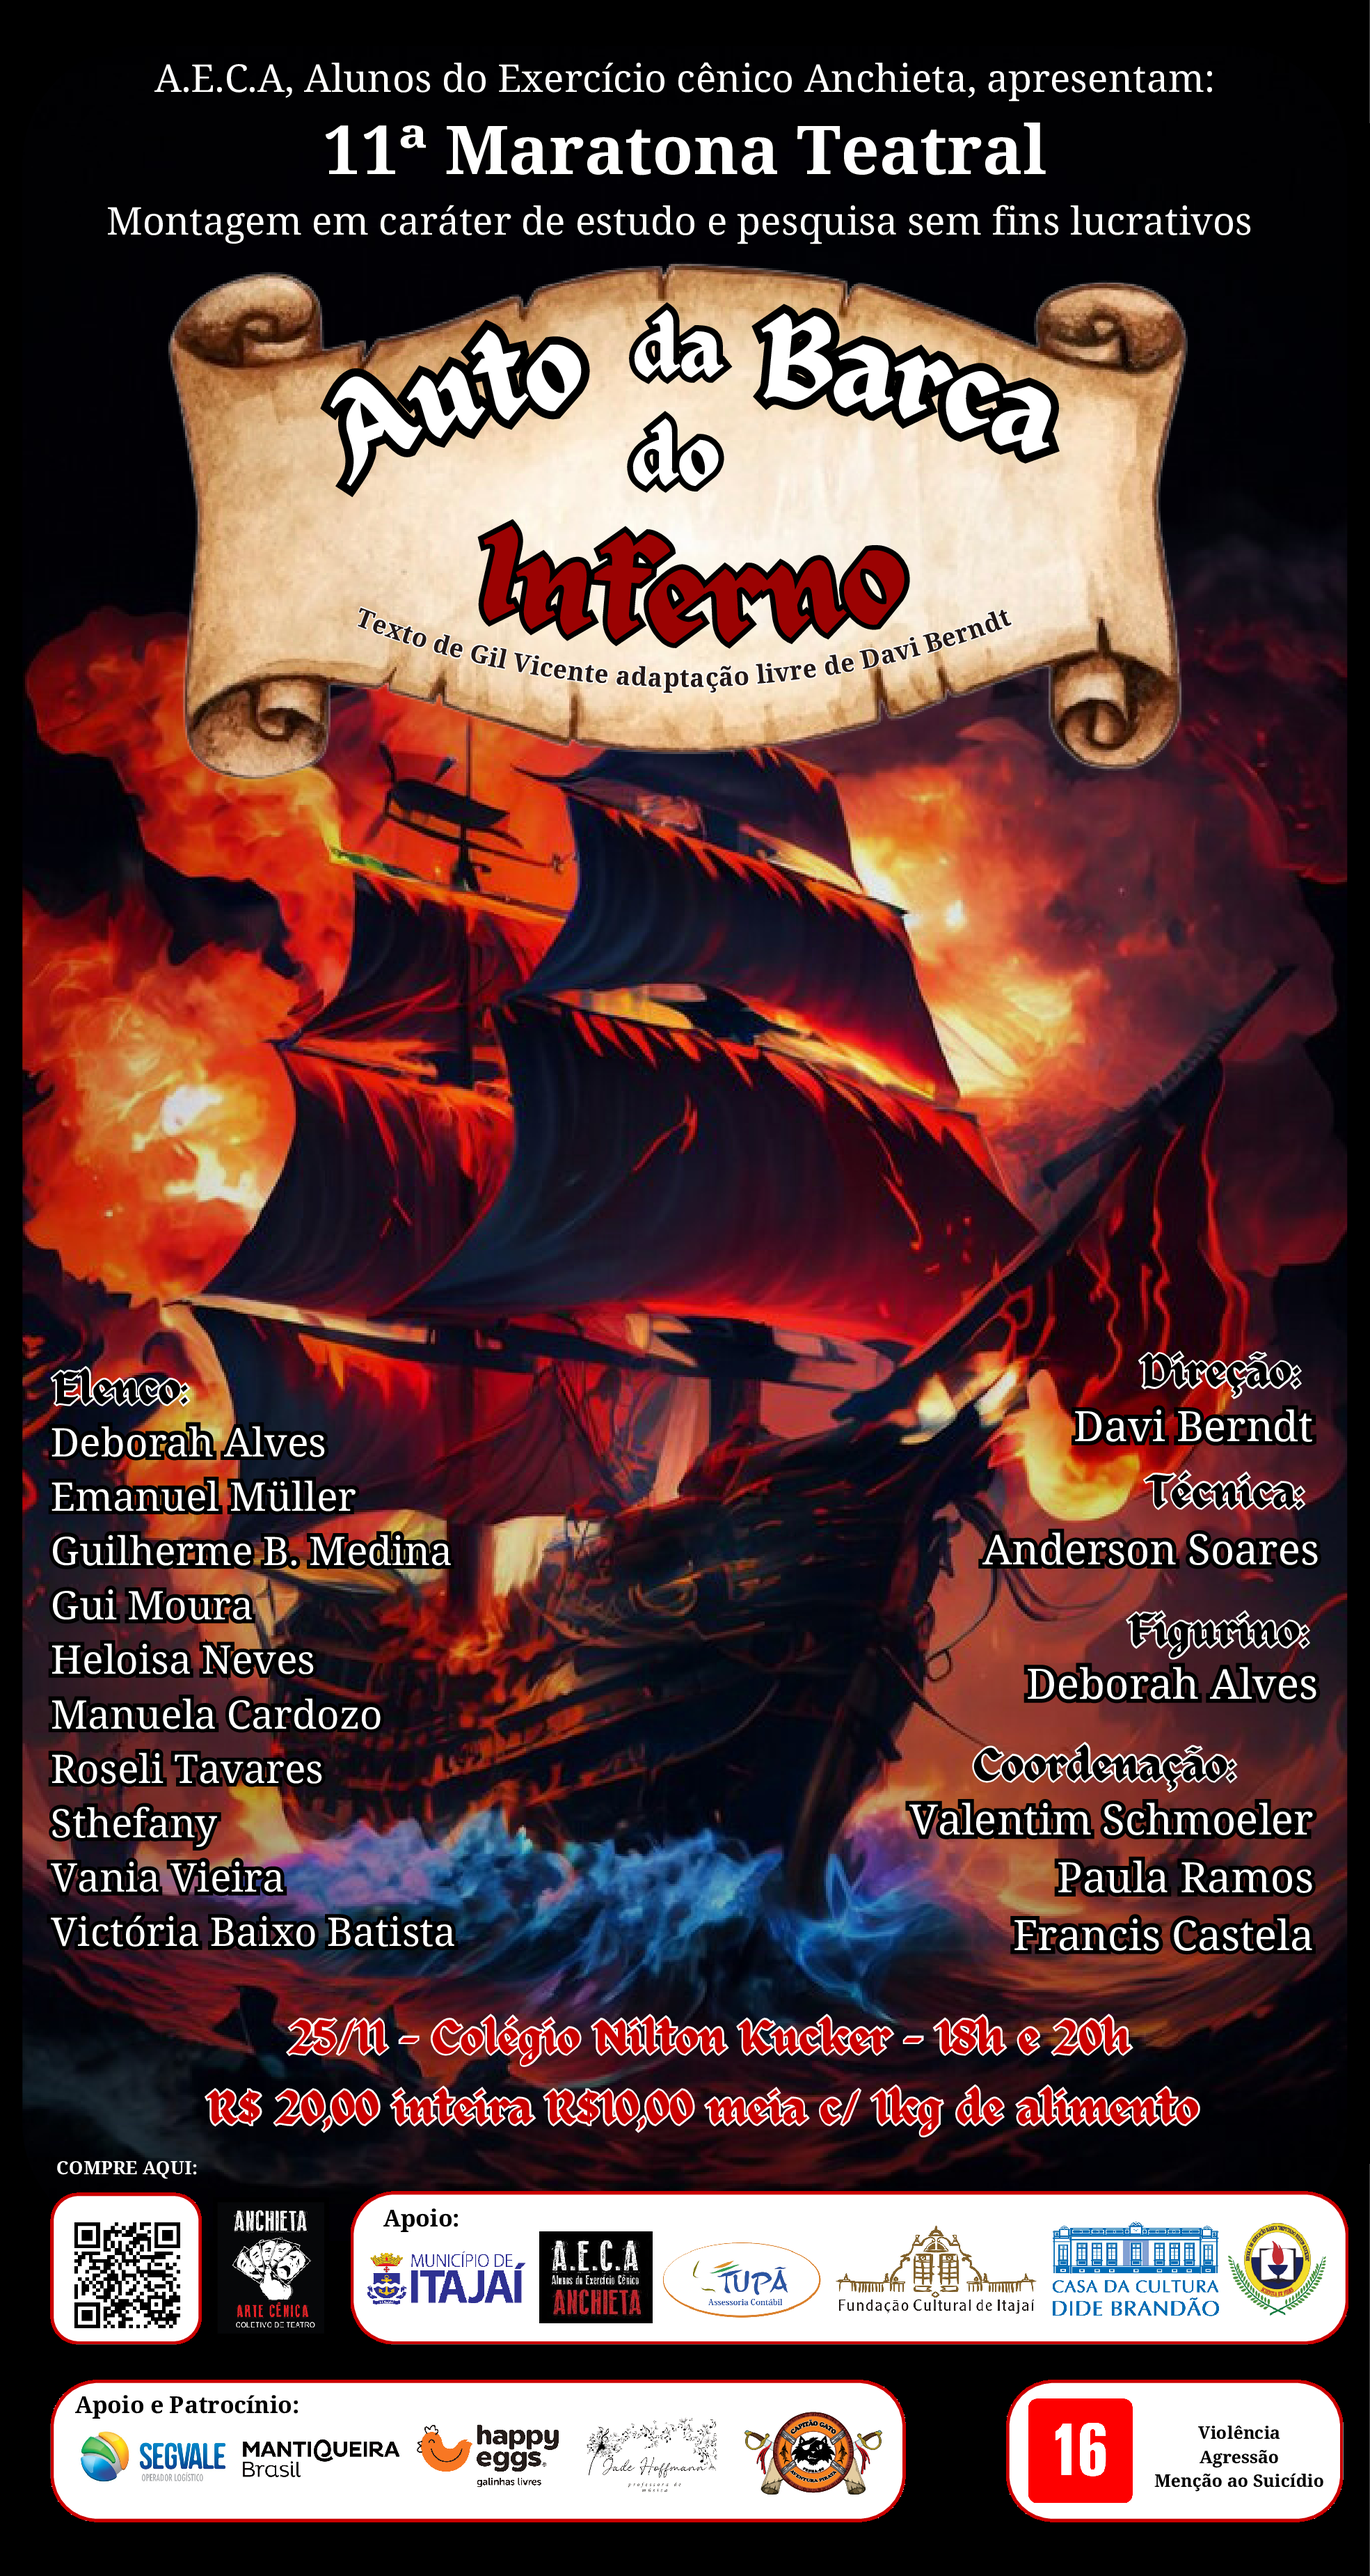
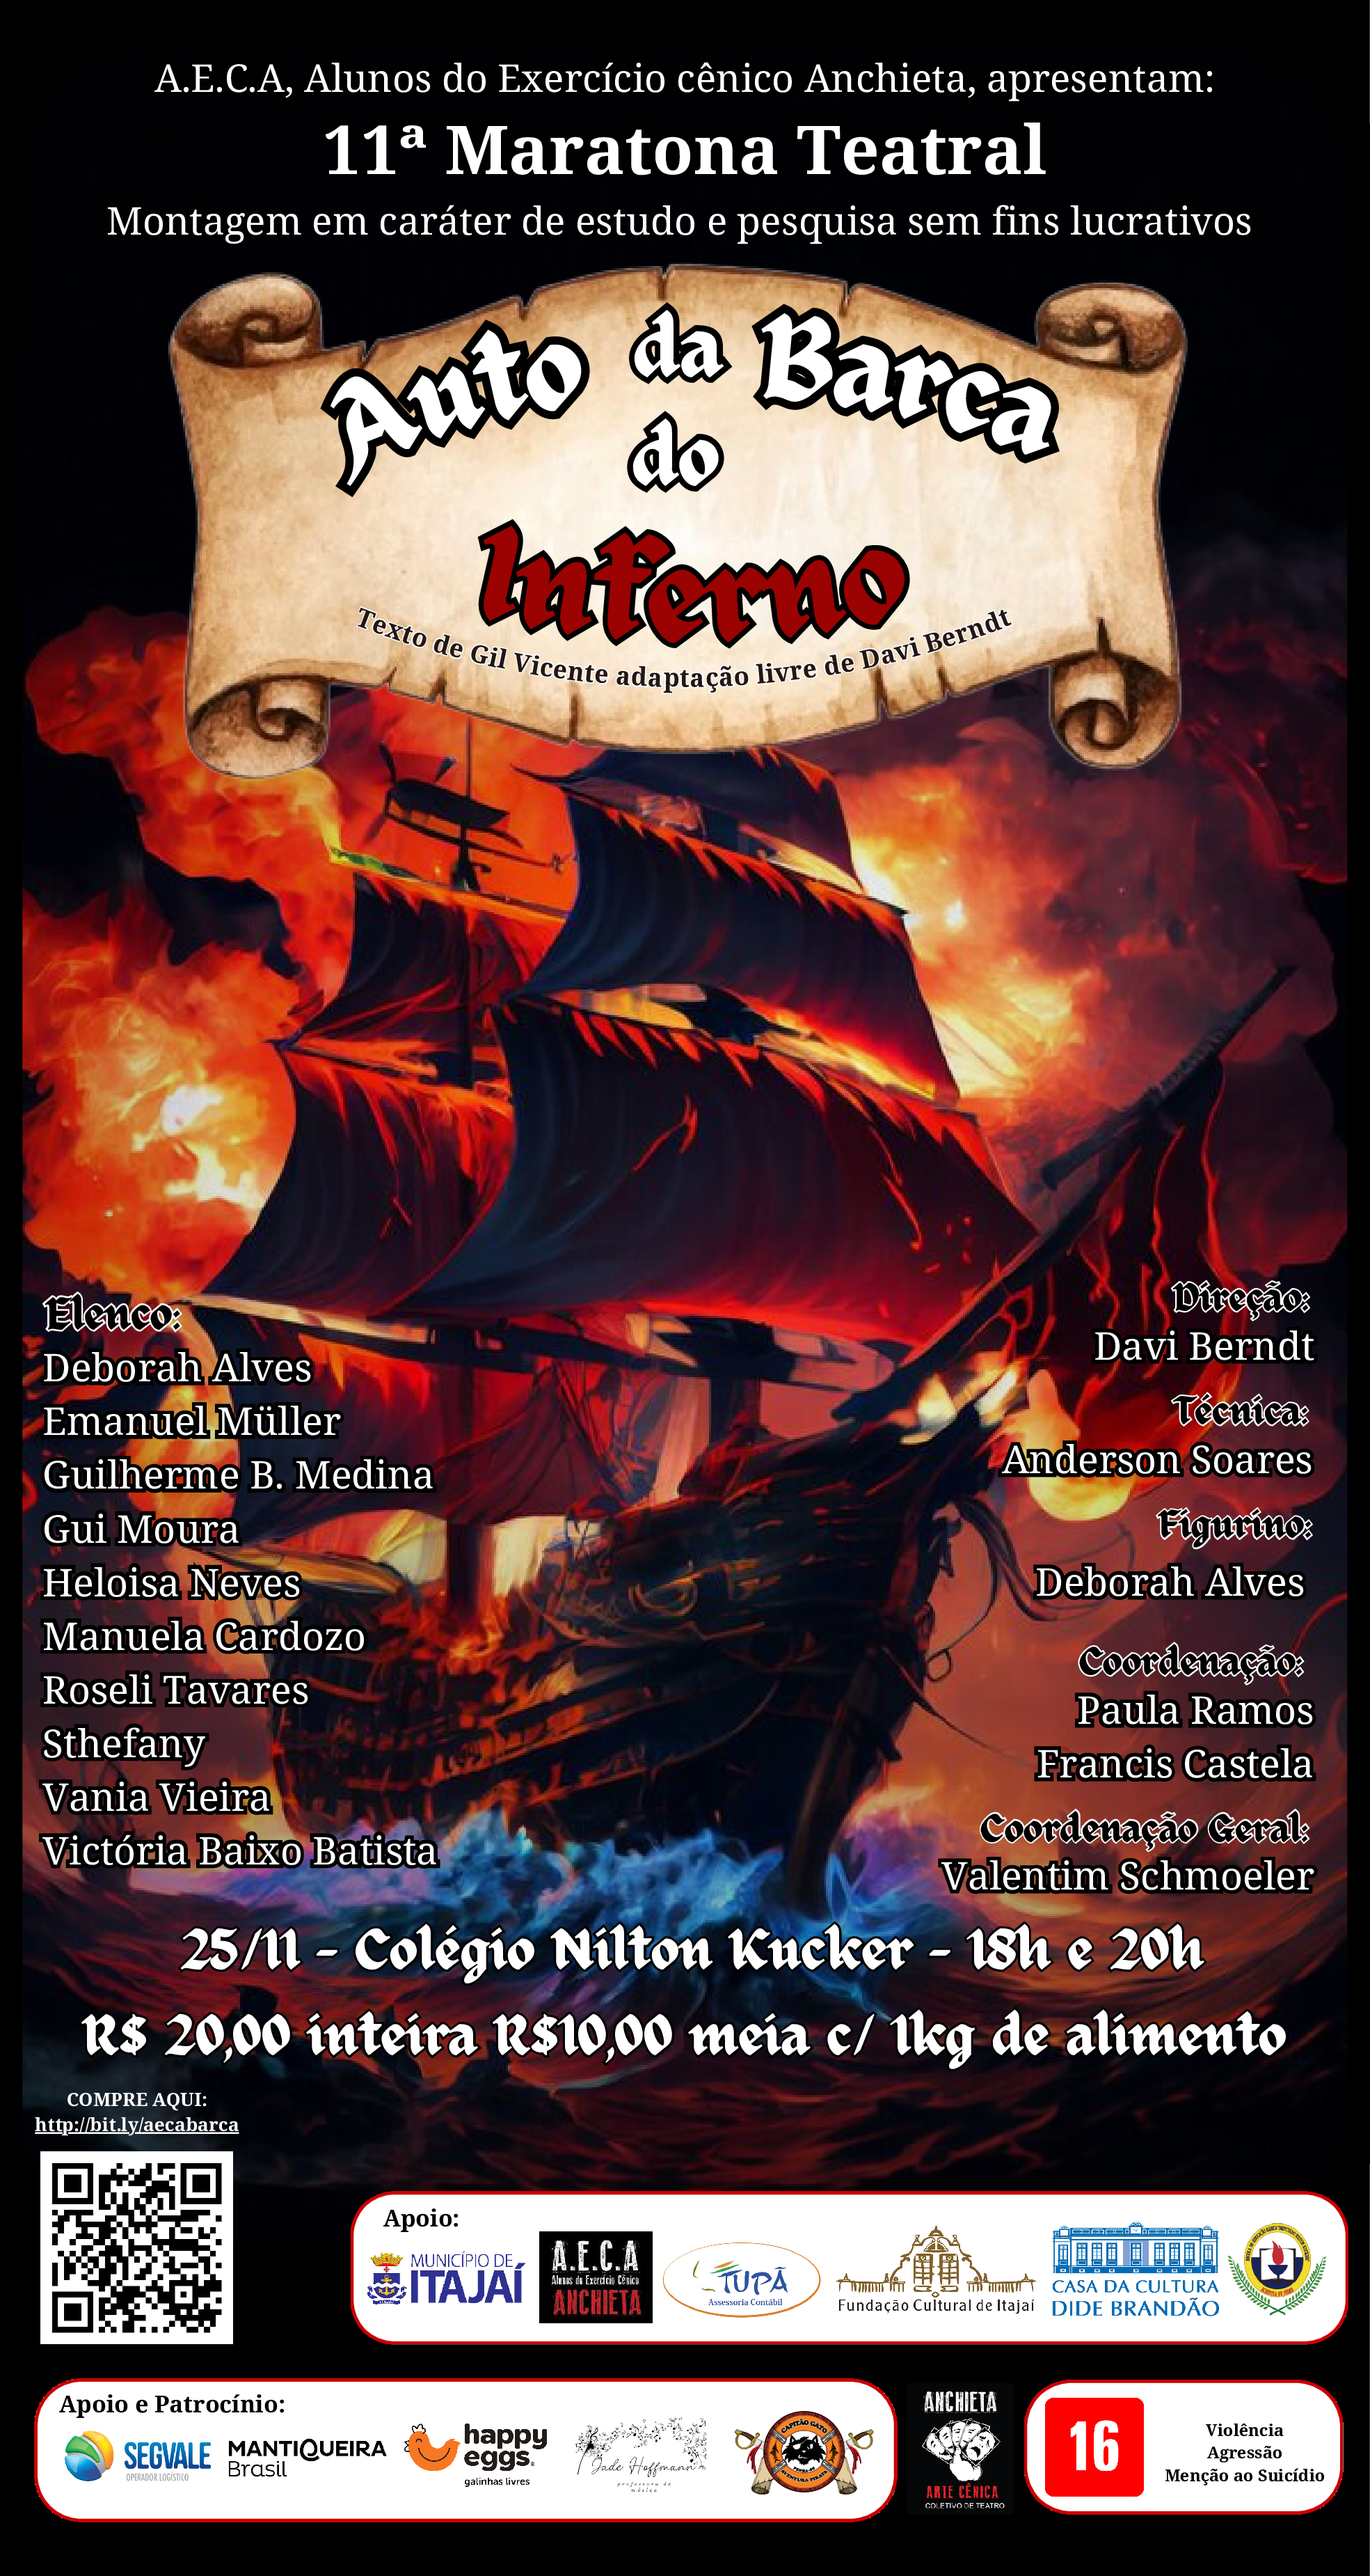
coord

Changed region(s): [[0.0, 0.4973, 0.9914, 0.9946]]

diff --git a/index.html b/index.html
@@ -24,6 +24,10 @@
                 href="https://www.sympla.com.br/evento/11-maratona-teatral/2223689?_gl=1*1h6gbga*_ga*MjExNTAwNjM0NS4xNjk4MzMzNjA3*_ga_KXH10SQTZF*MTY5ODMzMzYwNi4xLjEuMTY5ODMzNjI2OC4wLjAuMA.."
                 style="text-decoration: none; color: inherit;">COMPRE SEUS<br>INGRESSOS</a></button></p>
     <br>
+    <p>Nossas montagens são em caráter de estudo e pesquisa, sem fins lucrativos. A receita proveniente da venda de
+        ingressos é direcionada para despesas dos elencos, como alimentação, iluminação, e outros custos relacionados à
+        produção.</p>
+    <br>
     <p><b>Local dos espetáculos:</b> E.E.B NILTON KUCKER</p>
     <p>R. Alfredo Trompovski, 506 - Vila Operaria, Itajaí - SC, 88303-140</p>
     <p><a href="https://maps.app.goo.gl/B55rF1GF5jQoyRoS7">🔗 Veja no Google Maps</a></p>

diff --git a/MARATONA/gotadagua.html b/MARATONA/gotadagua.html
@@ -71,10 +71,12 @@
     <h2>EQUIPE TÉCNICA</h2>
     <p>Hyago Bittencourt</p>
     <br>
-    <h2>COORDENAÇÃO GERAL</h2>
-    <p>Valentim Schmoeller</p>
+    <h2>COORDENAÇÃO</h2>
     <p>Paula Ramos</p>
     <p>Francis Castela</p>
+    <br>
+    <h2>COORDENAÇÃO GERAL</h2>
+    <p>Valentim Schmoeller</p>
     <br>
     <hr>
     <br>

diff --git a/MARATONA/autodabarcadoinferno.html b/MARATONA/autodabarcadoinferno.html
@@ -71,10 +71,12 @@
     <h2>EQUIPE TÉCNICA</h2>
     <p>Anderson Soares</p>
     <br>
-    <h2>COORDENAÇÃO GERAL</h2>
-    <p>Valentim Schmoeller</p>
+    <h2>COORDENAÇÃO</h2>
     <p>Paula Ramos</p>
     <p>Francis Castela</p>
+    <br>
+    <h2>COORDENAÇÃO GERAL</h2>
+    <p>Valentim Schmoeller</p>
     <br>
     <hr>
     <br>

diff --git a/MARATONA/reidavela.html b/MARATONA/reidavela.html
@@ -71,10 +71,12 @@
     <h2>EQUIPE TÉCNICA</h2>
     <p>Gustavo Bianchi</p>
     <br>
-    <h2>COORDENAÇÃO GERAL</h2>
-    <p>Valentim Schmoeller</p>
+    <h2>COORDENAÇÃO</h2>
     <p>Paula Ramos</p>
     <p>Francis Castela</p>
+    <br>
+    <h2>COORDENAÇÃO GERAL</h2>
+    <p>Valentim Schmoeller</p>
     <br>
     <hr>
     <br>

diff --git a/MARATONA/beijonoasfalto.html b/MARATONA/beijonoasfalto.html
@@ -72,10 +72,12 @@
     <p>Davi Berndt</p>
     <p>Eduarda Assumpção</p>
     <br>
-    <h2>COORDENAÇÃO GERAL</h2>
-    <p>Valentim Schmoeller</p>
+    <h2>COORDENAÇÃO</h2>
     <p>Paula Ramos</p>
     <p>Francis Castela</p>
+    <br>
+    <h2>COORDENAÇÃO GERAL</h2>
+    <p>Valentim Schmoeller</p>
     <br>
     <hr>
     <br>

diff --git a/MARATONA/pagadordepromessas.html b/MARATONA/pagadordepromessas.html
@@ -70,10 +70,12 @@
     <h2>EQUIPE TÉCNICA</h2>
     <p>Sara Maquim</p>
     <br>
-    <h2>COORDENAÇÃO GERAL</h2>
-    <p>Valentim Schmoeller</p>
+    <h2>COORDENAÇÃO</h2>
     <p>Paula Ramos</p>
     <p>Francis Castela</p>
+    <br>
+    <h2>COORDENAÇÃO GERAL</h2>
+    <p>Valentim Schmoeller</p>
     <br>
     <hr>
     <br>
